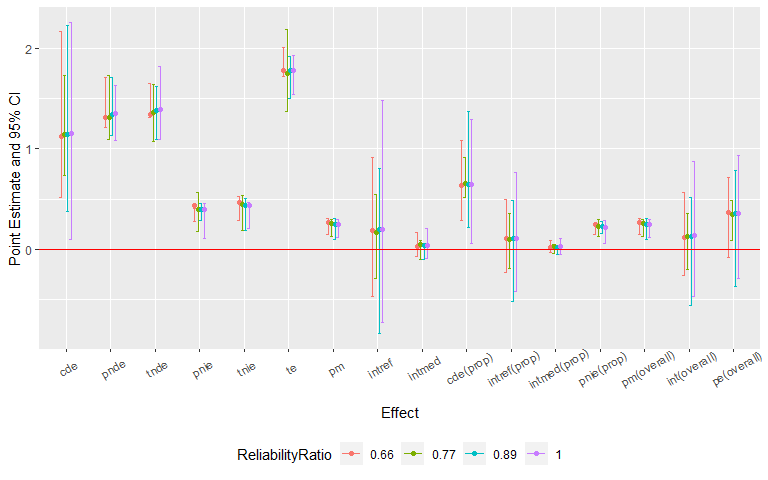
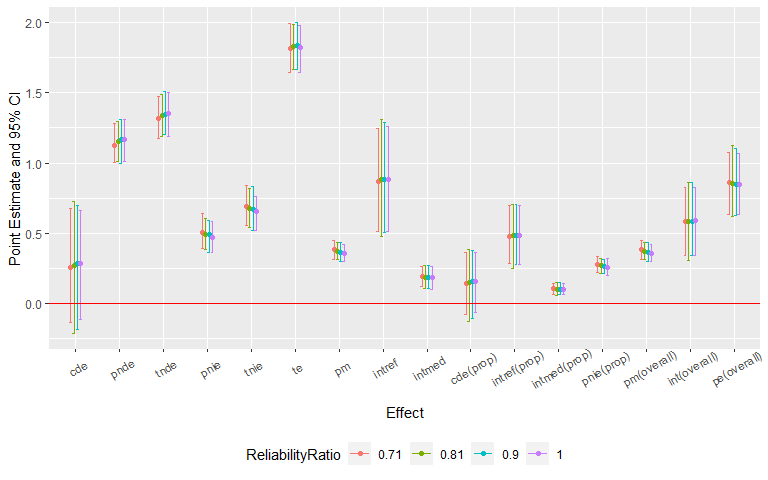
update readme

diff --git a/README.md b/README.md
@@ -32,7 +32,7 @@ g-formula approach* by [Lin et
 al. (2017)](https://www.ncbi.nlm.nih.gov/pmc/articles/PMC5285457/).
 
 <table>
-<caption>Supported Data Types and Functionalities of <code>cmest</code></caption>
+<caption>Table: Supported Data Types and Functionalities of <code>cmest</code></caption>
 <thead>
 <tr class="header">
 <th></th>
@@ -288,19 +288,9 @@ al. (2017)](https://www.ncbi.nlm.nih.gov/pmc/articles/PMC5285457/).
 <td style="text-align: center;">×</td>
 <td style="text-align: center;">×</td>
 </tr>
-<tr class="even">
-<td>Effects Conditional On C</td>
-<td style="text-align: center;">√<a href="#fn11" class="footnote-ref" id="fnref11" role="doc-noteref"><sup>11</sup></a></td>
-<td style="text-align: center;">×</td>
-<td style="text-align: center;">×</td>
-<td style="text-align: center;">×</td>
-<td style="text-align: center;">×</td>
-<td style="text-align: center;">×</td>
-</tr>
 </tbody>
 </table>
 <section class="footnotes" role="doc-endnotes">
-
 <ol>
 <li id="fn1" role="doc-endnote"><p>rb: the regression-based approach; wb: the weighting-based approach; iorw: the inverse odds ratio weighting approach; ne: the natural effect model; msm: the marginal structural model; gformula: the g-formula approach.<a href="#fnref1" class="footnote-back" role="doc-backlink">↩</a></p></li>
 <li id="fn2" role="doc-endnote"><p>Y denotes the outcome, A denotes the exposure, M denotes the mediator(s) and C denotes the pre-exposure confounder(s).<a href="#fnref2" class="footnote-back" role="doc-backlink">↩</a></p></li>
@@ -312,7 +302,6 @@ al. (2017)](https://www.ncbi.nlm.nih.gov/pmc/articles/PMC5285457/).
 <li id="fn8" role="doc-endnote"><p>delta method inference is available only when closed-form parameter function estimation is used.<a href="#fnref8" class="footnote-back" role="doc-backlink">↩</a></p></li>
 <li id="fn9" role="doc-endnote"><p>marginal effects are estimated when direct counterfactual imputation estimation is used.<a href="#fnref9" class="footnote-back" role="doc-backlink">↩</a></p></li>
 <li id="fn10" role="doc-endnote"><p>conditional effects are estimated when closed-form parameter function estimation is used.<a href="#fnref10" class="footnote-back" role="doc-backlink">↩</a></p></li>
-<li id="fn11" role="doc-endnote"><p>conditional effects are estimated when closed-form parameter function estimation is used.<a href="#fnref11" class="footnote-back" role="doc-backlink">↩</a></p></li>
 </ol>
 </section>
 
@@ -358,7 +347,7 @@ scientific setting. The simulated dataset contains a binary exposure, a
 binary mediator, a continuous mediator, a continuous outcome and two
 pre-exposure confounders.
 
-    n <- 100
+    n <- 1000
     C1 <- rnorm(n, mean = 1, sd = 1)
     C2 <- rbinom(n, 1, 0.6)
     C2[which(C2 == 0)] <- "C2_0"
@@ -392,7 +381,7 @@ mediators are set to be 0.
                     mediator = c("M1", "M2"), prec = c("C1", "C2"), EMint = TRUE,
                     mreg = list("logistic", "linear"), yreg = "linear",
                     astar = 0, a = 1, mval = list(0, 0),
-                    estimation = "imputation", inference = "bootstrap", nboot = 5)
+                    estimation = "imputation", inference = "bootstrap", nboot = 200)
 
 Summarizing and plotting the results:
 
@@ -405,22 +394,22 @@ Summarizing and plotting the results:
     ##  bootstrap standard errors, percentile confidence intervals and p-values 
     ##  
     ##              Estimate Std.error  95% CIL 95% CIU  P.val    
-    ## cde           1.15116   0.85554  0.09375   2.258 <2e-16 ***
-    ## pnde          1.34902   0.23221  1.08339   1.628 <2e-16 ***
-    ## tnde          1.39018   0.30025  1.09510   1.823 <2e-16 ***
-    ## pnie          0.39355   0.15330  0.10290   0.456 <2e-16 ***
-    ## tnie          0.43471   0.10702  0.21130   0.469 <2e-16 ***
-    ## te            1.78373   0.17344  1.54223   1.933 <2e-16 ***
-    ## pm            0.24371   0.07372  0.11886   0.300 <2e-16 ***
-    ## intref        0.19785   0.89610 -0.72884   1.486    0.8    
-    ## intmed        0.04116   0.12293 -0.08789   0.206    0.8    
-    ## cde(prop)     0.64537   0.48667  0.06027   1.293 <2e-16 ***
-    ## intref(prop)  0.11092   0.47464 -0.41694   0.766    0.8    
-    ## intmed(prop)  0.02307   0.06497 -0.05041   0.106    0.8    
-    ## pnie(prop)    0.22063   0.09801  0.05456   0.291 <2e-16 ***
-    ## pm(overall)   0.24371   0.07372  0.11886   0.300 <2e-16 ***
-    ## int(overall)  0.13400   0.53923 -0.46734   0.872    0.8    
-    ## pe(overall)   0.35463   0.48667 -0.29286   0.940    0.4    
+    ## cde           0.28357   0.21920 -0.11519   0.665   0.18    
+    ## pnde          1.16836   0.08042  1.01398   1.312 <2e-16 ***
+    ## tnde          1.35393   0.08342  1.19128   1.500 <2e-16 ***
+    ## pnie          0.46727   0.05781  0.35985   0.585 <2e-16 ***
+    ## tnie          0.65284   0.06731  0.52078   0.764 <2e-16 ***
+    ## te            1.82120   0.08249  1.64357   1.980 <2e-16 ***
+    ## pm            0.35847   0.03335  0.29900   0.421 <2e-16 ***
+    ## intref        0.88479   0.19492  0.51165   1.263 <2e-16 ***
+    ## intmed        0.18557   0.04231  0.09943   0.263 <2e-16 ***
+    ## cde(prop)     0.15571   0.12077 -0.06675   0.364   0.18    
+    ## intref(prop)  0.48583   0.10945  0.27379   0.699 <2e-16 ***
+    ## intmed(prop)  0.10189   0.02282  0.06004   0.145 <2e-16 ***
+    ## pnie(prop)    0.25657   0.02998  0.20094   0.318 <2e-16 ***
+    ## pm(overall)   0.35847   0.03335  0.29900   0.421 <2e-16 ***
+    ## int(overall)  0.58772   0.13049  0.34087   0.824 <2e-16 ***
+    ## pe(overall)   0.84429   0.12077  0.63578   1.067 <2e-16 ***
     ## ---
     ## Signif. codes:  0 '***' 0.001 '**' 0.01 '*' 0.05 '.' 0.1 ' ' 1
 
@@ -438,12 +427,12 @@ analysis for unmeasured confounding:
     ## 
     ## Evalues on the ratio scale: 
     ##         estRR   lowerRR  upperRR Evalue.estRR Evalue.lowerRR Evalue.upperRR
-    ## cde  1.590578 0.8101218 3.122913     2.559785       1.000000             NA
-    ## pnde 1.722650 1.4343938 2.068835     2.838389       2.223755             NA
-    ## tnde 1.751474 1.3822056 2.219395     2.898725       2.109039             NA
-    ## pnie 1.171942 1.0384937 1.322539     1.620836       1.238432             NA
-    ## tnie 1.191551 1.0951204 1.296473     1.669299       1.417871             NA
-    ## te   2.052626 1.7902397 2.353468     3.522539       2.979659             NA
+    ## cde  1.119261 0.9439468 1.327134     1.484615       1.000000             NA
+    ## pnde 1.590760 1.4943769 1.693359     2.560170       2.353903             NA
+    ## tnde 1.712479 1.6049756 1.827182     2.817062       2.590354             NA
+    ## pnie 1.204009 1.1511086 1.259341     1.699619       1.568173             NA
+    ## tnie 1.296136 1.2300766 1.365742     1.915677       1.762065             NA
+    ## te   2.061840 1.9338001 2.198358     3.541484       3.277594             NA
 
 Assume that the continuous pre-exposure confounder was measured with
 error. Sensitivity analysis using regression calibration with a set of
@@ -465,22 +454,22 @@ Summarizing and plotting the results:
     ## 0.1
     ## Measurement error correction for measurement error 1: 
     ##              Estimate Std.error  95% CIL 95% CIU  P.val    
-    ## cde           1.14903   0.73593  0.37831   2.230 <2e-16 ***
-    ## pnde          1.34491   0.25591  1.13761   1.715 <2e-16 ***
-    ## tnde          1.38348   0.22454  1.09699   1.623 <2e-16 ***
-    ## pnie          0.39996   0.07335  0.28825   0.451 <2e-16 ***
-    ## tnie          0.43854   0.13488  0.19046   0.509 <2e-16 ***
-    ## te            1.78344   0.19055  1.49871   1.922 <2e-16 ***
-    ## pm            0.24589   0.08459  0.10109   0.306 <2e-16 ***
-    ## intref        0.19587   0.67016 -0.84347   0.802    0.8    
-    ## intmed        0.03857   0.06572 -0.09779   0.058    0.4    
-    ## cde(prop)     0.64428   0.46279  0.21680   1.375 <2e-16 ***
-    ## intref(prop)  0.10983   0.41025 -0.51897   0.482    0.8    
-    ## intmed(prop)  0.02163   0.03837 -0.05153   0.035    0.4    
-    ## pnie(prop)    0.22426   0.05507  0.15262   0.275 <2e-16 ***
-    ## pm(overall)   0.24589   0.08459  0.10109   0.306 <2e-16 ***
-    ## int(overall)  0.13146   0.44092 -0.56319   0.515    0.8    
-    ## pe(overall)   0.35572   0.46279 -0.37470   0.783    0.8    
+    ## cde           0.28076   0.22714 -0.18931   0.696   0.25    
+    ## pnde          1.16517   0.08066  0.99443   1.310 <2e-16 ***
+    ## tnde          1.34766   0.07968  1.20501   1.511 <2e-16 ***
+    ## pnie          0.48788   0.05902  0.36355   0.589 <2e-16 ***
+    ## tnie          0.67037   0.07374  0.52159   0.832 <2e-16 ***
+    ## te            1.83554   0.09207  1.66729   1.999 <2e-16 ***
+    ## pm            0.36522   0.03412  0.29596   0.434 <2e-16 ***
+    ## intref        0.88441   0.19087  0.50378   1.287 <2e-16 ***
+    ## intmed        0.18249   0.04326  0.10641   0.269 <2e-16 ***
+    ## cde(prop)     0.15296   0.12290 -0.10526   0.373   0.25    
+    ## intref(prop)  0.48183   0.10816  0.27696   0.707 <2e-16 ***
+    ## intmed(prop)  0.09942   0.02303  0.06128   0.147 <2e-16 ***
+    ## pnie(prop)    0.26580   0.02823  0.21040   0.316 <2e-16 ***
+    ## pm(overall)   0.36522   0.03412  0.29596   0.434 <2e-16 ***
+    ## int(overall)  0.58125   0.12941  0.33853   0.860 <2e-16 ***
+    ## pe(overall)   0.84704   0.12290  0.62655   1.105 <2e-16 ***
     ## ---
     ## Signif. codes:  0 '***' 0.001 '**' 0.01 '*' 0.05 '.' 0.1 ' ' 1
     ## ----------------------------------------------------------------
@@ -489,22 +478,22 @@ Summarizing and plotting the results:
     ## 0.2
     ## Measurement error correction for measurement error 2: 
     ##              Estimate Std.error  95% CIL 95% CIU  P.val    
-    ## cde           1.14208   0.41659  0.73251   1.733 <2e-16 ***
-    ## pnde          1.31166   0.26703  1.09421   1.732 <2e-16 ***
-    ## tnde          1.35960   0.24967  1.07671   1.640 <2e-16 ***
-    ## pnie          0.39556   0.16603  0.17334   0.568 <2e-16 ***
-    ## tnie          0.44351   0.14512  0.18339   0.538 <2e-16 ***
-    ## te            1.75517   0.33848  1.37471   2.190 <2e-16 ***
-    ## pm            0.25269   0.07128  0.12799   0.293 <2e-16 ***
-    ## intref        0.16958   0.36368 -0.28802   0.548    0.8    
-    ## intmed        0.04795   0.08288 -0.10178   0.090    0.8    
-    ## cde(prop)     0.65070   0.18840  0.51385   0.914 <2e-16 ***
-    ## intref(prop)  0.09661   0.23175 -0.19032   0.352    0.8    
-    ## intmed(prop)  0.02732   0.04140 -0.04613   0.049    0.8    
-    ## pnie(prop)    0.22537   0.07702  0.12224   0.293 <2e-16 ***
-    ## pm(overall)   0.25269   0.07128  0.12799   0.293 <2e-16 ***
-    ## int(overall)  0.12393   0.25628 -0.20701   0.358    0.8    
-    ## pe(overall)   0.34930   0.18840  0.08573   0.486 <2e-16 ***
+    ## cde           0.27176   0.21987 -0.21631   0.724    0.2    
+    ## pnde          1.15440   0.07851  1.00748   1.293 <2e-16 ***
+    ## tnde          1.33930   0.07770  1.19211   1.488 <2e-16 ***
+    ## pnie          0.49363   0.05872  0.38620   0.604 <2e-16 ***
+    ## tnie          0.67854   0.07066  0.54154   0.818 <2e-16 ***
+    ## te            1.83293   0.07978  1.67007   1.986 <2e-16 ***
+    ## pm            0.37019   0.03414  0.31067   0.436 <2e-16 ***
+    ## intref        0.88264   0.19103  0.47779   1.310 <2e-16 ***
+    ## intmed        0.18491   0.04326  0.10518   0.271 <2e-16 ***
+    ## cde(prop)     0.14827   0.11849 -0.12598   0.384    0.2    
+    ## intref(prop)  0.48154   0.10559  0.24994   0.708 <2e-16 ***
+    ## intmed(prop)  0.10088   0.02301  0.05455   0.147 <2e-16 ***
+    ## pnie(prop)    0.26931   0.02907  0.21047   0.320 <2e-16 ***
+    ## pm(overall)   0.37019   0.03414  0.31067   0.436 <2e-16 ***
+    ## int(overall)  0.58242   0.12669  0.30385   0.860 <2e-16 ***
+    ## pe(overall)   0.85173   0.11849  0.61563   1.126 <2e-16 ***
     ## ---
     ## Signif. codes:  0 '***' 0.001 '**' 0.01 '*' 0.05 '.' 0.1 ' ' 1
     ## ----------------------------------------------------------------
@@ -513,22 +502,22 @@ Summarizing and plotting the results:
     ## 0.3
     ## Measurement error correction for measurement error 3: 
     ##              Estimate Std.error  95% CIL 95% CIU  P.val    
-    ## cde           1.12821   0.70633  0.51750   2.176 <2e-16 ***
-    ## pnde          1.31113   0.19455  1.21329   1.709 <2e-16 ***
-    ## tnde          1.34110   0.13889  1.31769   1.651 <2e-16 ***
-    ## pnie          0.43954   0.05806  0.27189   0.411 <2e-16 ***
-    ## tnie          0.46951   0.11017  0.28737   0.525 <2e-16 ***
-    ## te            1.78064   0.12357  1.72154   2.013 <2e-16 ***
-    ## pm            0.26367   0.06574  0.14450   0.302 <2e-16 ***
-    ## intref        0.18292   0.56361 -0.46793   0.915    0.4    
-    ## intmed        0.02997   0.09916 -0.06812   0.168    0.4    
-    ## cde(prop)     0.63360   0.34318  0.28141   1.087 <2e-16 ***
-    ## intref(prop)  0.10273   0.29534 -0.23113   0.495    0.4    
-    ## intmed(prop)  0.01683   0.05152 -0.03345   0.087    0.4    
-    ## pnie(prop)    0.24684   0.03608  0.14819   0.236 <2e-16 ***
-    ## pm(overall)   0.26367   0.06574  0.14450   0.302 <2e-16 ***
-    ## int(overall)  0.11956   0.34387 -0.26459   0.569    0.4    
-    ## pe(overall)   0.36640   0.34318 -0.08663   0.719    0.4    
+    ## cde           0.25459   0.21738 -0.13580   0.679   0.24    
+    ## pnde          1.12400   0.07833  1.00232   1.284 <2e-16 ***
+    ## tnde          1.31433   0.08113  1.17297   1.476 <2e-16 ***
+    ## pnie          0.50239   0.05993  0.39136   0.637 <2e-16 ***
+    ## tnie          0.69272   0.07429  0.55149   0.840 <2e-16 ***
+    ## te            1.81672   0.09498  1.64487   1.994 <2e-16 ***
+    ## pm            0.38130   0.03289  0.31467   0.446 <2e-16 ***
+    ## intref        0.86940   0.18712  0.50879   1.243 <2e-16 ***
+    ## intmed        0.19034   0.04109  0.11690   0.266 <2e-16 ***
+    ## cde(prop)     0.14014   0.11766 -0.07675   0.366   0.24    
+    ## intref(prop)  0.47856   0.10482  0.28534   0.699 <2e-16 ***
+    ## intmed(prop)  0.10477   0.02141  0.06315   0.144 <2e-16 ***
+    ## pnie(prop)    0.27653   0.02774  0.22227   0.335 <2e-16 ***
+    ## pm(overall)   0.38130   0.03289  0.31467   0.446 <2e-16 ***
+    ## int(overall)  0.58333   0.12420  0.33991   0.824 <2e-16 ***
+    ## pe(overall)   0.85986   0.11766  0.63387   1.077 <2e-16 ***
     ## ---
     ## Signif. codes:  0 '***' 0.001 '**' 0.01 '*' 0.05 '.' 0.1 ' ' 1
     ## ----------------------------------------------------------------
@@ -542,7 +531,7 @@ Then, assume that the exposure was measured with error. Sensitivity
 analysis using MCSIMEX with two assumed misclassification matrices:
 
     me2 <- cmsens(object = est, sens = "me", MEmethod = "simex", MEvariable = "A", 
-                  MEvartype = "cat", B = 5,
+                  MEvartype = "cat", B = 200,
                   MEerror = list(matrix(c(0.95, 0.05, 0.05, 0.95), nrow = 2), 
                                  matrix(c(0.9, 0.1, 0.1, 0.9), nrow = 2)))
 
@@ -562,22 +551,22 @@ Summarizing and plotting the results:
     ## 
     ## Measurement error correction for measurement error 1: 
     ##              Estimate Std.error  95% CIL 95% CIU  P.val    
-    ## cde           0.97861   0.43461  0.72784   1.711 <2e-16 ***
-    ## pnde          1.37675   0.11971  1.34204   1.621 <2e-16 ***
-    ## tnde          1.44830   0.24207  1.27937   1.805 <2e-16 ***
-    ## pnie          0.51349   0.07734  0.29911   0.477 <2e-16 ***
-    ## tnie          0.58504   0.13970  0.37712   0.702 <2e-16 ***
-    ## te            1.96179   0.21667  1.71916   2.247 <2e-16 ***
-    ## pm            0.29822   0.04495  0.21551   0.312 <2e-16 ***
-    ## intref        0.39814   0.45125 -0.22072   0.817    0.4    
-    ## intmed        0.07155   0.14981 -0.07220   0.250    0.8    
-    ## cde(prop)     0.49884   0.24355  0.32449   0.903 <2e-16 ***
-    ## intref(prop)  0.20295   0.21279 -0.11804   0.364    0.4    
-    ## intmed(prop)  0.03647   0.07134 -0.03875   0.111    0.8    
-    ## pnie(prop)    0.26174   0.04889  0.14308   0.256 <2e-16 ***
-    ## pm(overall)   0.29822   0.04495  0.21551   0.312 <2e-16 ***
-    ## int(overall)  0.23942   0.27495 -0.15111   0.475    0.4    
-    ## pe(overall)   0.50116   0.24355  0.09747   0.676 <2e-16 ***
+    ## cde           0.41357   0.25697 -0.10549   0.897   0.15    
+    ## pnde          1.35894   0.09347  1.17919   1.548 <2e-16 ***
+    ## tnde          1.58358   0.09472  1.43953   1.783 <2e-16 ***
+    ## pnie          0.47462   0.05605  0.35693   0.580 <2e-16 ***
+    ## tnie          0.69926   0.06991  0.57769   0.853 <2e-16 ***
+    ## te            2.05820   0.09003  1.89923   2.254 <2e-16 ***
+    ## pm            0.33975   0.03219  0.29148   0.414 <2e-16 ***
+    ## intref        0.94537   0.21783  0.50341   1.420 <2e-16 ***
+    ## intmed        0.22464   0.05754  0.12323   0.350 <2e-16 ***
+    ## cde(prop)     0.20094   0.12298 -0.05100   0.422   0.15    
+    ## intref(prop)  0.45932   0.10634  0.24732   0.687 <2e-16 ***
+    ## intmed(prop)  0.10914   0.02735  0.05741   0.167 <2e-16 ***
+    ## pnie(prop)    0.23060   0.02690  0.17659   0.285 <2e-16 ***
+    ## pm(overall)   0.33975   0.03219  0.29148   0.414 <2e-16 ***
+    ## int(overall)  0.56846   0.13201  0.30910   0.850 <2e-16 ***
+    ## pe(overall)   0.79906   0.12298  0.57775   1.051 <2e-16 ***
     ## ---
     ## Signif. codes:  0 '***' 0.001 '**' 0.01 '*' 0.05 '.' 0.1 ' ' 1
     ## ----------------------------------------------------------------
@@ -588,23 +577,23 @@ Summarizing and plotting the results:
     ## [2,]  0.1  0.9
     ## 
     ## Measurement error correction for measurement error 2: 
-    ##              Estimate Std.error  95% CIL 95% CIU  P.val    
-    ## cde           1.16054   1.33729 -0.24806   3.093    0.4    
-    ## pnde          1.90037   0.34676  1.36769   2.042 <2e-16 ***
-    ## tnde          2.08621   0.35116  1.42296   2.192 <2e-16 ***
-    ## pnie          0.36932   0.14949  0.11259   0.489 <2e-16 ***
-    ## tnie          0.55516   0.23419  0.21124   0.794 <2e-16 ***
-    ## te            2.45553   0.29904  1.76385   2.479 <2e-16 ***
-    ## pm            0.22609   0.10430  0.09721   0.359 <2e-16 ***
-    ## intref        0.73982   1.12661 -1.06302   1.679    0.4    
-    ## intmed        0.18584   0.37849 -0.27766   0.682    0.4    
-    ## cde(prop)     0.47262   0.59400 -0.11479   1.375    0.4    
-    ## intref(prop)  0.30129   0.50052 -0.47176   0.757    0.4    
-    ## intmed(prop)  0.07568   0.17023 -0.12368   0.308    0.4    
-    ## pnie(prop)    0.15040   0.07347  0.05025   0.223 <2e-16 ***
-    ## pm(overall)   0.22609   0.10430  0.09721   0.359 <2e-16 ***
-    ## int(overall)  0.37697   0.66066 -0.59175   1.065    0.4    
-    ## pe(overall)   0.52738   0.59400 -0.37455   1.115    0.4    
+    ##               Estimate Std.error   95% CIL 95% CIU  P.val    
+    ## cde           0.462692  0.303844 -0.007039   1.136   0.06 .  
+    ## pnde          1.540007  0.113319  1.345088   1.786 <2e-16 ***
+    ## tnde          1.832024  0.114800  1.649124   2.073 <2e-16 ***
+    ## pnie          0.476871  0.061760  0.363883   0.591 <2e-16 ***
+    ## tnie          0.768888  0.080688  0.595542   0.894 <2e-16 ***
+    ## te            2.308895  0.107883  2.091872   2.523 <2e-16 ***
+    ## pm            0.333011  0.033807  0.258709   0.384 <2e-16 ***
+    ## intref        1.077315  0.247827  0.503796   1.465 <2e-16 ***
+    ## intmed        0.292017  0.074313  0.134529   0.412 <2e-16 ***
+    ## cde(prop)     0.200395  0.129699 -0.003229   0.489   0.06 .  
+    ## intref(prop)  0.466593  0.109513  0.210635   0.643 <2e-16 ***
+    ## intmed(prop)  0.126475  0.031685  0.060189   0.181 <2e-16 ***
+    ## pnie(prop)    0.206536  0.026789  0.156208   0.255 <2e-16 ***
+    ## pm(overall)   0.333011  0.033807  0.258709   0.384 <2e-16 ***
+    ## int(overall)  0.593068  0.139432  0.265725   0.814 <2e-16 ***
+    ## pe(overall)   0.799605  0.129699  0.510699   1.003 <2e-16 ***
     ## ---
     ## Signif. codes:  0 '***' 0.001 '**' 0.01 '*' 0.05 '.' 0.1 ' ' 1
     ## ----------------------------------------------------------------
@@ -663,8 +652,8 @@ Schomaker M, Heumann C. Bootstrap inference when using multiple
 imputation (2018). Statistics in Medicine. 37(14): 2252 - 2266.
 
 VanderWeele TJ, Ding P. Sensitivity analysis in observational research:
-introducing the E-Value (2017). Annals of Internal Medicine. 167(4): 268
-- 274.
+introducing the E-Value (2017). Annals of Internal Medicine. 167(4): 
+268 - 274.
 
 Smith LH, VanderWeele TJ. Mediational E-values: Approximate sensitivity
 analysis for unmeasured mediator-outcome confounding (2019).
